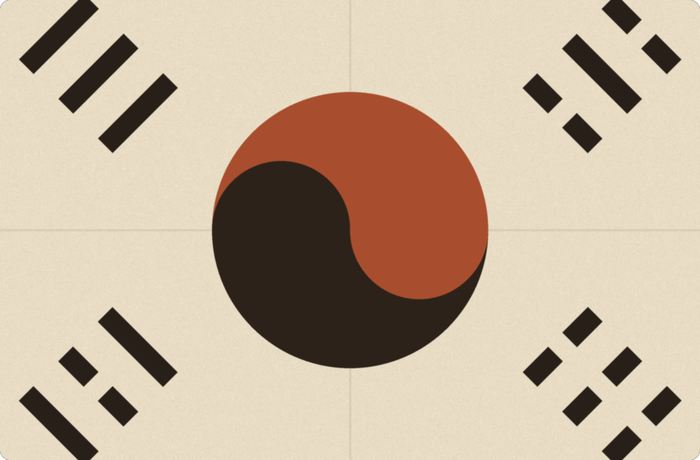
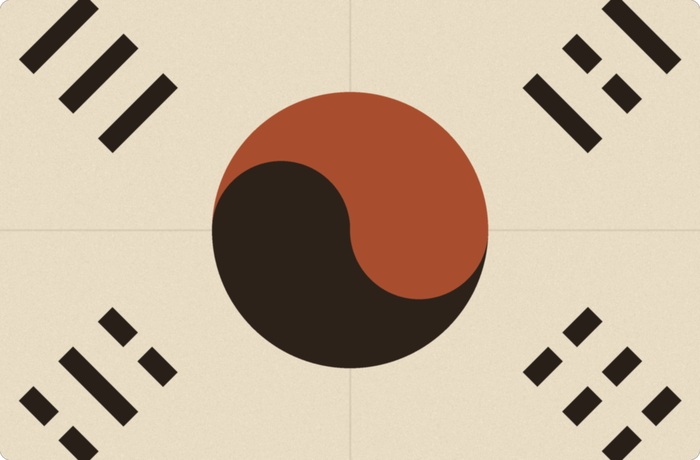
태극기 건곤감리 배치 오류 수정(감·리가 뒤바뀌어 있었음)
- draw_taegukgi.py: TRIGRAMS 딕셔너리에서 오른쪽 위(리)와 왼쪽 아래(감)
  자리에 서로의 무늬가 들어가 있던 버그 수정. 원래 "100% 정확하다"는
  주석과 달리 이 파일 자체가 감/리를 헷갈렸던 것 — 정작 곤(모두 끊긴
  줄)과는 안 헷갈렸는데 감/리끼리 뒤바뀜.
- props/taegukgi.png를 고친 배치로 재생성.
- 이 소품을 합성해 쓰는 ilje_ch7_imjeong.png(임시정부 청사 책상 위 태극기)
  도 새 태극기로 재합성 + webp 재생성.

diff --git a/www/assets/props/draw_taegukgi.py b/www/assets/props/draw_taegukgi.py
@@ -97,8 +97,8 @@ def draw_trigram(pattern, corner):
 
 TRIGRAMS = {
     'tl': ['solid', 'solid', 'solid'],   # 건
-    'tr': ['broken', 'solid', 'broken'], # 감
-    'bl': ['solid', 'broken', 'solid'],  # 리
+    'tr': ['solid', 'broken', 'solid'],  # 리 (예전엔 여기 감 무늬가 들어가 있었음 — 감/리가 뒤바뀐 버그)
+    'bl': ['broken', 'solid', 'broken'], # 감
     'br': ['broken', 'broken', 'broken'],# 곤
 }
 
